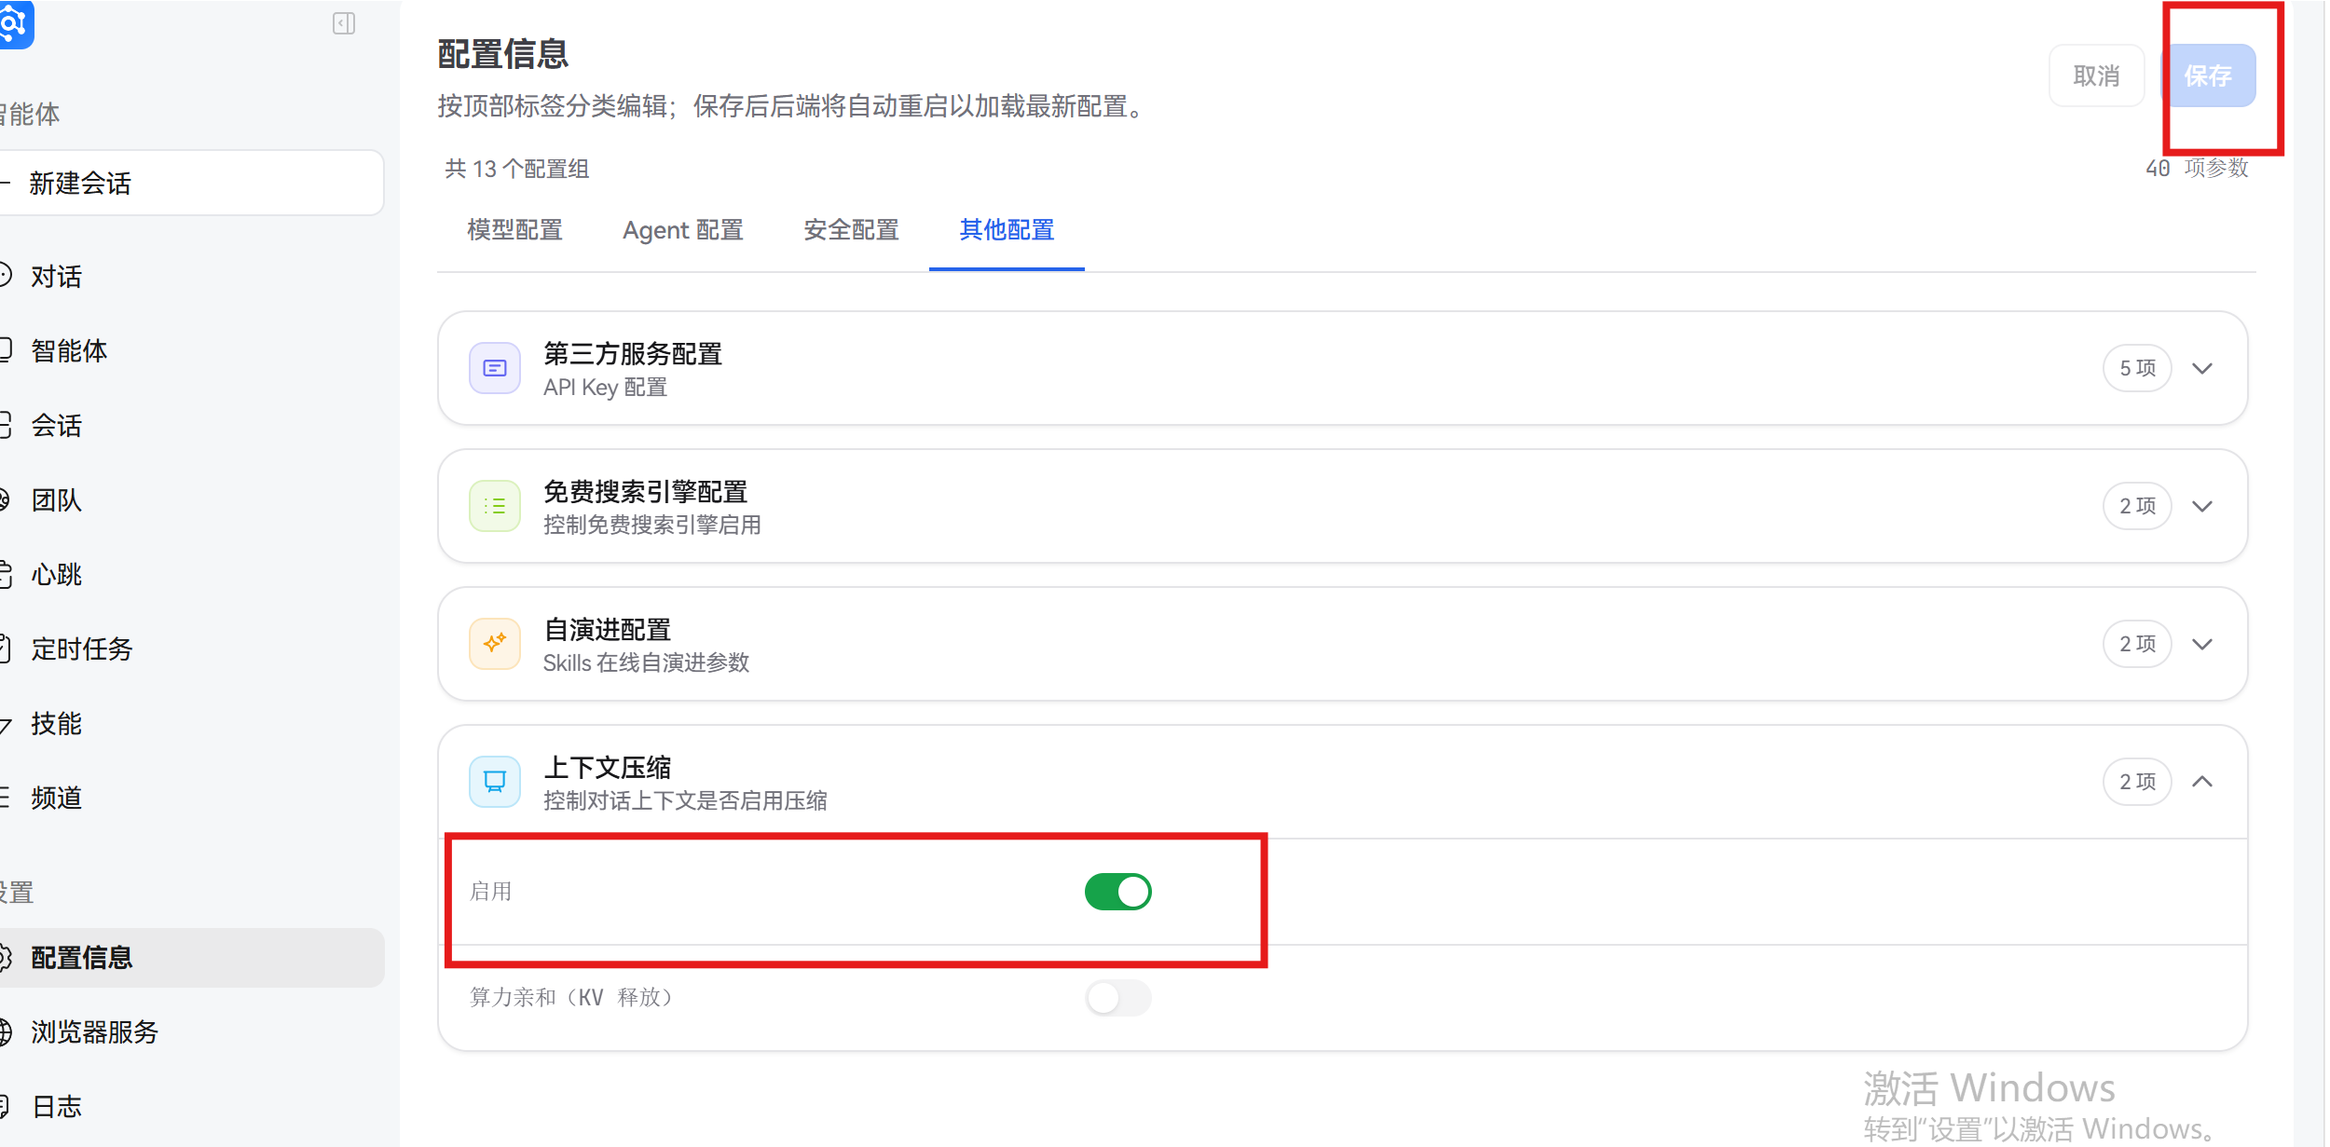
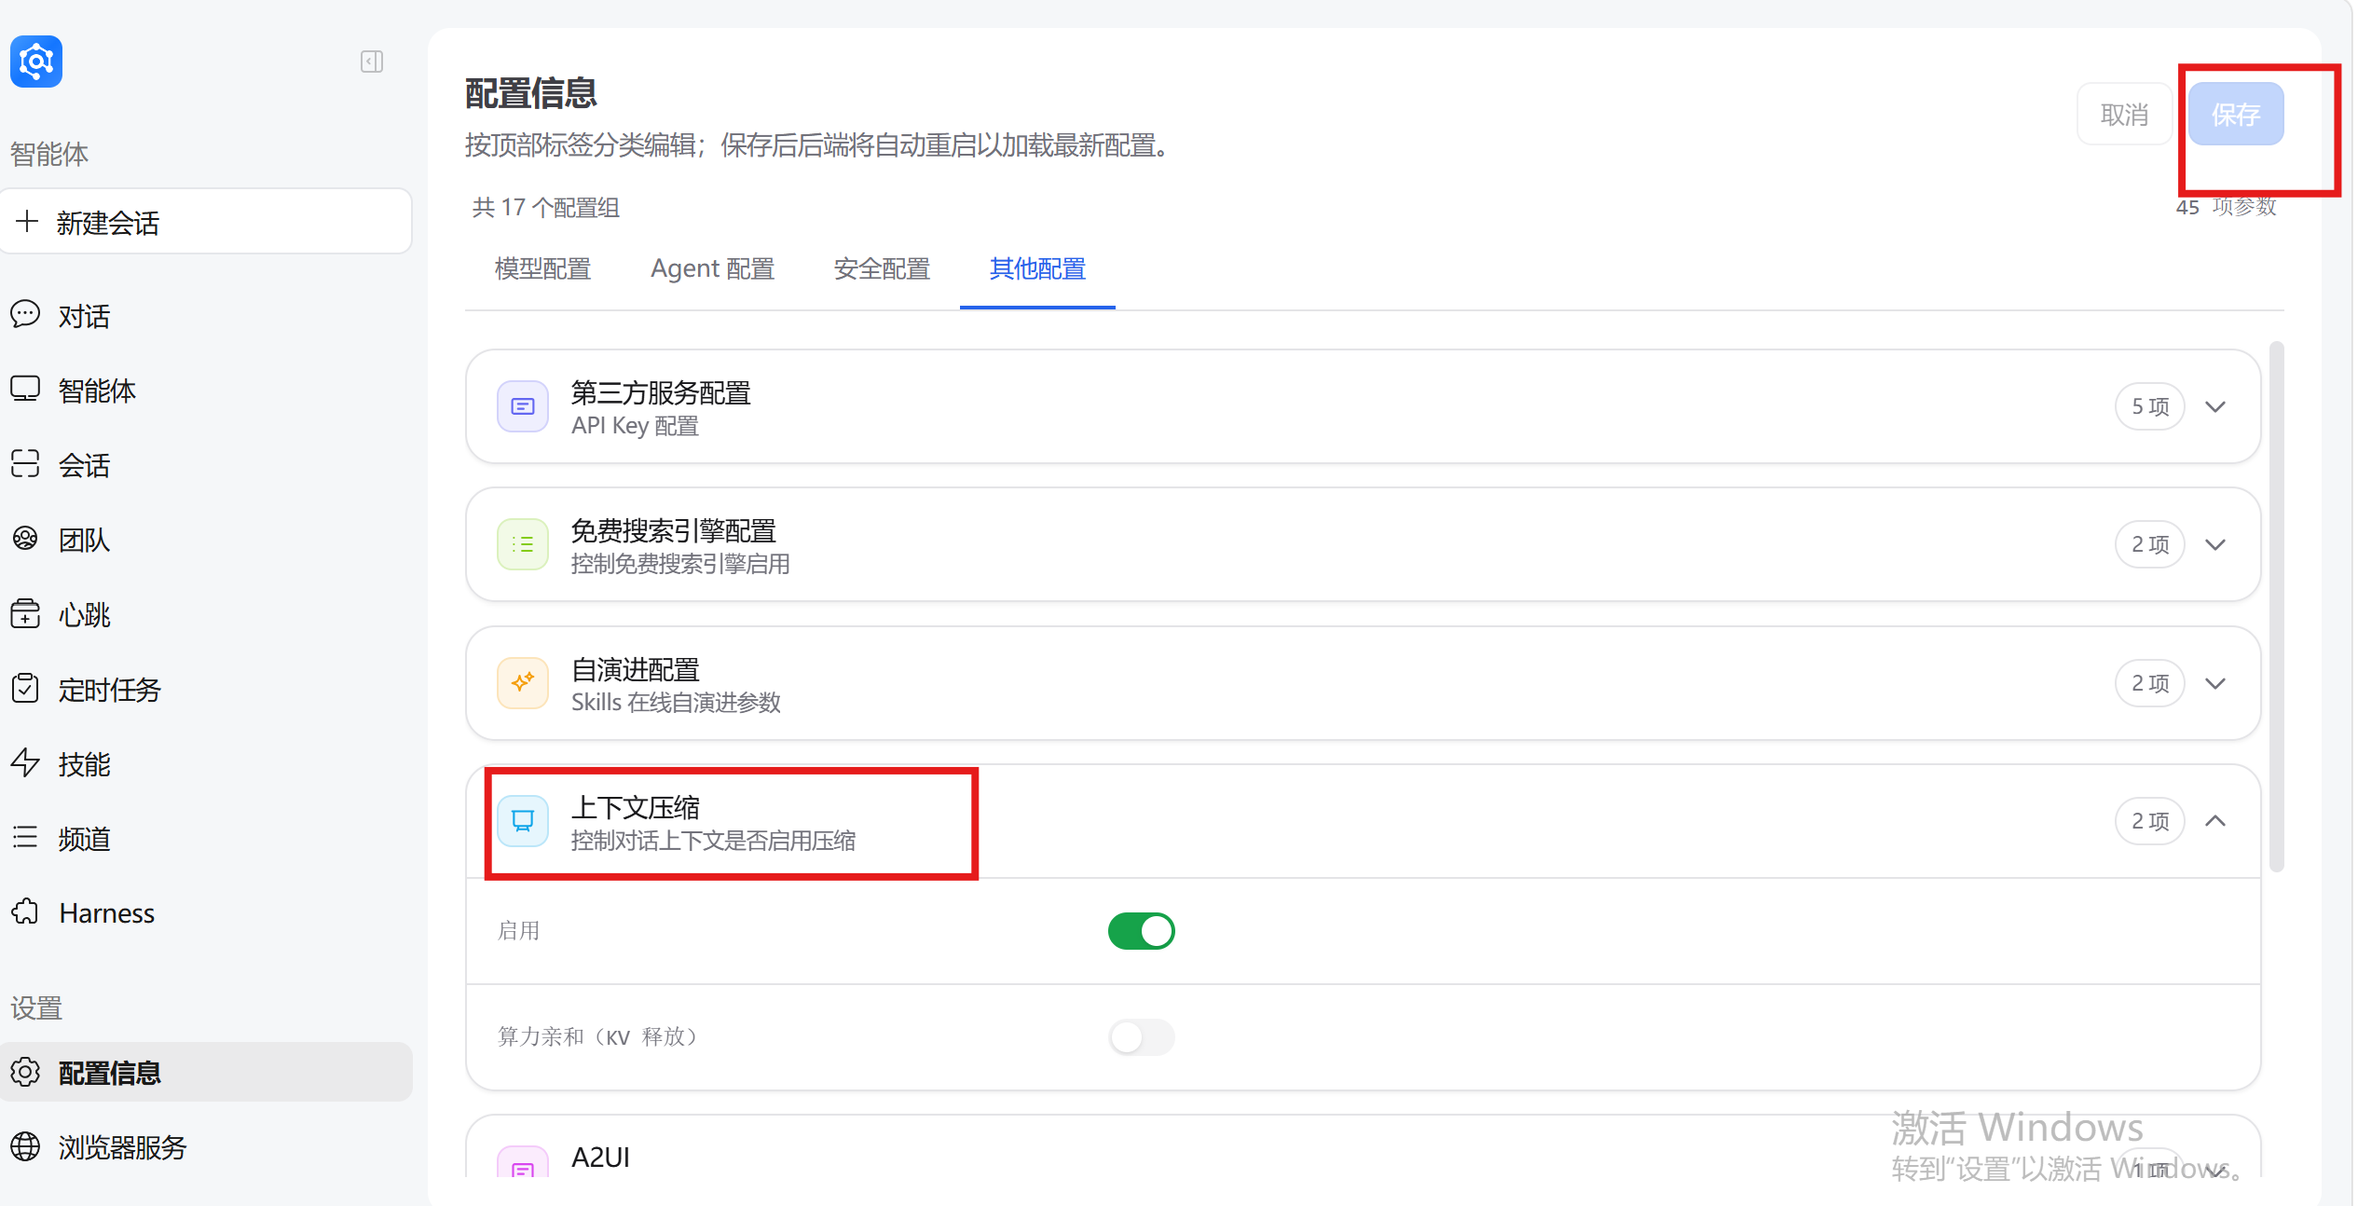
docs(Agent): 修复智能体文档
Refs: #1963

# message auto-generated for no-merge-commit merge:
!4036 fix:修复智能体文档

From: @xiaoxiawang

diff --git a/docs/en/Agent.md b/docs/en/Agent.md
@@ -12,7 +12,9 @@ In JiuwenSwarm, an **Agent** is a digital assistant that can act on its own. It 
 
 **Core definition:**
 
-**Agent = identity + tools + skills + memory + workspace**
+**Agent = identity + tools + skills + memory + workspace + config**
+
+> **Note:** The above 6 items are the core components that make up a single agent. The workspace contains runtime data such as todos, sessions, and file storage. When multiple agents work together, they can form a cross-agent **collaboration capability** for task decomposition and parallel execution.
 
 **How it differs from plain LLM chat:**
 
@@ -21,7 +23,8 @@ In JiuwenSwarm, an **Agent** is a digital assistant that can act on its own. It 
 | Execution | Text replies only | Can call tools (files, shell, web search, etc.) |
 | Memory | Short-term, within a session | Long-term across sessions; preferences and history |
 | Skills | Fixed capability | Loadable skill modules for specialized work |
-| Workspace | None | Dedicated workspace for tasks, todos, and state |
+| Workspace | None | Dedicated workspace for tasks, todos, and sessions |
+| Configuration | None | Independent config system for models, channels, permissions |
 | Personalization | None | Identity and config shape tone and behavior |
 
 **How the pieces fit together:**
@@ -35,9 +38,12 @@ In JiuwenSwarm, an **Agent** is a digital assistant that can act on its own. It 
 │  └─────────┘  └─────────┘  └─────────┘  └─────────┘ │
 │  ┌───────────────────────────────────────────────┐ │
 │  │              Workspace                       │ │
-│  │  ┌─────────┐  ┌─────────┐  ┌─────────────────┐│ │
-│  │  │  Todo   │  │ Config  │  │    Sessions     ││ │
-│  │  └─────────┘  └─────────┘  └─────────────────┘│ │
+│  │  ┌─────────┐  ┌─────────────────────────────┐ │ │
+│  │  │  Todo   │  │          Sessions            │ │ │
+│  │  └─────────┘  └─────────────────────────────┘ │ │
+│  └───────────────────────────────────────────────┘ │
+│  ┌───────────────────────────────────────────────┐ │
+│  │                Config                         │ │
 │  └───────────────────────────────────────────────┘ │
 └─────────────────────────────────────────────────────┘
 ```
@@ -45,12 +51,13 @@ In JiuwenSwarm, an **Agent** is a digital assistant that can act on its own. It 
 **Takeaways:**
 
 1. **Identity** — who the agent is and how it communicates  
-2. **Tools** — “hands” for files, search, code, shell, and media  
+2. **Tools** — "hands" for files, search, code, shell, and media  
 3. **Skills** — loadable modules (e.g. Git, document workflows)  
 4. **Memory** — user profile, history, and decisions across sessions  
-5. **Workspace** — the agent’s “desk” for tasks, config, and sessions  
+5. **Workspace** — the agent's "desk" for tasks, todos, and sessions  
+6. **Config** — the agent's "settings panel" for models, channels, and permissions  
 
-> This section is conceptual only. Later sections go into each part in more detail.
+> This section is conceptual only. Later sections go into each part in more detail. See also: [Configuration](Configuration.md), [Memory](Memory.md), [Skill Self-Evolution](SkillSelfEvolution.md).
 
 ---
 
@@ -83,19 +90,19 @@ In the web frontend, the **Agent** page is a **workspace file browser** for view
 
 ### What an agent is made of
 
-An agent has six main areas. You can focus on the ones you care about.
+An agent consists of **6 core components** and **1 collaboration capability** (multi-agent collaboration). You can focus on the ones you care about.
 
 **Overview:**
 
-| Part | Role | User focus | Main effect |
-|------|------|------------|-------------|
-| **Identity** | Who the agent is, tone, style | Customizable | Conversation style and behavior |
-| **Workspace** | Tasks, todos, sessions, runtime data | Good to understand | Task tracking and persistence |
-| **Tools** | Files, web, code, shell, media | Usually no edits | What operations are possible |
-| **Skills** | Professional modules (Git, PPT, etc.) | Load as needed | Extra capabilities |
-| **Memory** | Preferences, history, decisions | Mostly automatic | Continuity and personalization |
-| **Todo** | Task tracking | Day to day | Execution efficiency |
-| **Config** | Models, channels, permissions | Advanced users | Model, security, channel behavior |
+| Part | Type | Role | User focus | Main effect |
+|------|------|------|------------|-------------|
+| **Identity** | Core component | Who the agent is, tone, style | Customizable | Conversation style and behavior |
+| **Workspace** | Core component | Tasks, todos, sessions, runtime data | Good to understand | Task tracking and persistence |
+| **Tools** | Core component | Files, web, code, shell, media | Usually no edits | What operations are possible |
+| **Skills** | Core component | Professional modules (Git, PPT, etc.) | Load as needed | Extra capabilities |
+| **Memory** | Core component | Preferences, history, decisions | Mostly automatic | Continuity and personalization |
+| **Config** | Core component | Models, channels, permissions | Advanced users | Model, security, channel behavior |
+| **Multi-Agent Collaboration** | Collaboration capability | Supports team-based workflows for parallel operation | Enable as needed | Task decomposition and efficiency |
 
 **Details:**
 
@@ -107,7 +114,7 @@ Defines who the agent is and how it talks to you:
 - Personality (concise vs. thorough)  
 - Principles (e.g. try first, then ask; respect trust)  
 
-**Files:** `IDENTITY.md`, `SOUL.md`
+**Files:** `agent/workspace/IDENTITY_ZH.md`, `agent/workspace/SOUL_ZH.md` (Chinese); `agent/workspace/IDENTITY_EN.md`, `agent/workspace/SOUL_EN.md` (English)
 
 #### 2. Workspace
 
@@ -138,8 +145,10 @@ Loadable modules. Each skill typically defines goals, steps, tool usage, and out
 
 **Examples:**
 
-- `gitcode-pr` — open a Pull Request on GitCode  
-- `gitcode-pr-review-fix` — address PR review comments and update code  
+- `skill-creator` — skill creation assistant, helps generate new skills  
+- `swarmskill-creator` — Swarm skill creator, supports multi-agent collaboration skills  
+- `gitcode-api` — GitCode platform API operations  
+- `project-maintainer` — project maintenance assistant, supports code review and version management  
 
 **Location:** `skills/` directory
 
@@ -166,6 +175,24 @@ Controls runtime behavior:
 
 > You do not need to edit everything by hand. In practice, focus on **identity** and **skills**; the rest is largely managed by the system.
 
+#### 7. Multi-Agent Collaboration
+
+JiuwenSwarm supports multi-agent collaboration through team-based workflows to handle complex tasks.
+
+**Collaboration modes:**
+- **Team mode**: A leader agent breaks down tasks, while multiple teammate agents execute subtasks  
+- **Swarm mode**: Multiple agents work in parallel, with task distribution and result aggregation through skill orchestration  
+
+**Features:**
+- Automatic task decomposition: Complex tasks are split into executable subtasks by the leader  
+- Parallel execution: Multiple agents work simultaneously for efficiency  
+- Result aggregation: The leader collects and integrates results from teammates  
+- Dynamic adjustment: Task assignments adapt based on execution progress  
+
+**Configuration:** Team settings are configured in the `team` section of `config/config.yaml`
+
+> See team collaboration documentation for more details on multi-agent workflows.
+
 ---
 
 ## Directory layout
@@ -184,19 +211,22 @@ C:\Users\<username>\.jiuwenswarm\
 │   └── builtin_rules.yaml           # Built-in rules
 │
 ├── agent/                           # Agent-related data
-│   └── <service_id>/                # Service instance
-│       └── <agent_id>/              # Agent instance
-│           ├── agent/               # Agent workspace
-│           │   ├── AGENT.md         # Agent bootstrap config
-│           │   ├── IDENTITY.md      # Identity
-│           │   ├── SOUL.md          # Values and persona
-│           │   ├── HEARTBEAT.md     # Heartbeat tasks
-│           │   └── sessions/        # Session data
-│           ├── config/              # Per-agent config overrides (optional)
-│           ├── memory/              # Agent memory store
-│           ├── skills/              # Skills
-│           └── todo/                # Todos
+│   ├── sessions/                    # Session history storage
+│   └── workspace/                   # Agent workspace
+│       ├── AGENT_ZH.md              # Agent bootstrap config (Chinese)
+│       ├── AGENT_EN.md              # Agent bootstrap config (English)
+│       ├── IDENTITY_ZH.md           # Identity (Chinese)
+│       ├── IDENTITY_EN.md           # Identity (English)
+│       ├── SOUL_ZH.md               # Values and persona (Chinese)
+│       ├── SOUL_EN.md               # Values and persona (English)
+│       ├── HEARTBEAT_ZH.md          # Heartbeat tasks (Chinese)
+│       ├── HEARTBEAT_EN.md          # Heartbeat tasks (English)
+│       ├── USER.md                  # User profile and preferences
+│       ├── memory/                  # Agent memory store
+│       ├── todo/                    # Agent todo items storage
+│       └── skills/                  # Skills
 │
+├── todo/                            # Global todo items storage
 ├── gateway/                         # Gateway data
 ├── logs/                            # Log files
 ├── memory/                          # Global memory store
@@ -210,13 +240,16 @@ C:\Users\<username>\.jiuwenswarm\
 |------|---------|-------|------------------|
 | `config/config.yaml` | Models, channels, permissions, memory | Advanced users, carefully | Affects models, channels, security; restart required |
 | `config/builtin_rules.yaml` | Built-in rules | Not recommended | Changes default system behavior |
-| `agent/<id>/agent/AGENT.md` | Bootstrap config | Yes, when needed | Affects startup behavior |
-| `agent/<id>/agent/IDENTITY.md` | Identity | Customizable | Affects how the agent sees its role |
-| `agent/<id>/agent/SOUL.md` | Values and persona | Customizable | Affects tone and style |
-| `agent/<id>/agent/HEARTBEAT.md` | Heartbeat tasks | Adjustable | Affects scheduled / proactive behavior |
-| `agent/<id>/skills/` | Skills | Add skills | Extends capabilities |
-| `agent/<id>/memory/` | Memory store | Do not edit by hand | Risk of corrupting memory data |
-| `agent/<id>/todo/` | Todos | System-managed | Affects task tracking |
+| `agent/sessions/` | Session history storage | Auto-managed by system | Affects session history; manage via Web UI |
+| `agent/workspace/AGENT_ZH.md` | Bootstrap config (Chinese) | Yes, when needed | Affects startup behavior |
+| `agent/workspace/IDENTITY_ZH.md` | Identity (Chinese) | Customizable | Affects how the agent sees its role |
+| `agent/workspace/SOUL_ZH.md` | Values and persona (Chinese) | Customizable | Affects tone and style |
+| `agent/workspace/HEARTBEAT_ZH.md` | Heartbeat tasks (Chinese) | Adjustable | Affects scheduled / proactive behavior |
+| `agent/workspace/USER.md` | User profile and preferences | Auto-managed by system | Affects personalization; update via agent conversation |
+| `agent/workspace/skills/` | Skills | Add skills | Extends capabilities |
+| `agent/workspace/memory/` | Memory store (user profile, episodic, semantic) | Do not edit by hand | Risk of corrupting memory data |
+| `agent/workspace/todo/` | Agent todo items storage | Auto-managed by system | Affects task tracking; manage via agent conversation |
+| `todo/` | Global todo items storage | Auto-managed by system | Affects task tracking; manage via agent conversation |
 | `logs/` | Logs | View only | Used for troubleshooting |
 
 **Example (Windows):**
@@ -224,14 +257,22 @@ C:\Users\<username>\.jiuwenswarm\
 ```text
 C:\Users\Administrator\.jiuwenswarm\
 ├── config\config.yaml
-├── service_default_service_id\
-│   └── agent_default_agent_id\
-│       └── agent\
-│           ├── AGENT.md
-│           ├── IDENTITY.md
-│           ├── SOUL.md
-│           ├── skills\
-│           └── sessions\
+├── todo\                            # Global todo items
+├── agent\
+│   ├── sessions\                    # Session history
+│   └── workspace\
+│       ├── AGENT_ZH.md
+│       ├── AGENT_EN.md
+│       ├── IDENTITY_ZH.md
+│       ├── IDENTITY_EN.md
+│       ├── SOUL_ZH.md
+│       ├── SOUL_EN.md
+│       ├── HEARTBEAT_ZH.md
+│       ├── HEARTBEAT_EN.md
+│       ├── USER.md
+│       ├── memory\
+│       ├── todo\                    # Agent todo items
+│       └── skills\
 ```
 
 > **Notes:**  
@@ -282,8 +323,8 @@ C:\Users\<username>\.jiuwenswarm\config\config.yaml
 
 | Key | Meaning | Effect | Suggestion |
 |-----|---------|--------|------------|
-| `models.default.model_name` | Default model | Quality and speed | Confirm the model works first |
-| `models.default.temperature` | Temperature | Creativity vs. stability | Often 0.7–1.0 |
+| `models.defaults[0].model_client_config.model_name` | Default model | Quality and speed | Confirm the model works first |
+| `models.defaults[0].model_config_obj.temperature` | Temperature | Creativity vs. stability | Often 0.7–1.0 |
 | `heartbeat.active_hours` | Active window | When proactive runs fire | Match your schedule |
 | `permissions.tools.*` | Tool permissions | Safety | Understand risk before changing |
 
@@ -291,7 +332,7 @@ C:\Users\<username>\.jiuwenswarm\config\config.yaml
 
 | Key | Meaning | Risk | Suggestion |
 |-----|---------|------|------------|
-| `models.default.api_key` | API key | Leakage | Prefer environment variables |
+| `models.defaults[0].model_client_config.api_key` | API key | Leakage | Prefer environment variables |
 | `memory.external.*` | External memory engine | Memory may break | Keep defaults |
 | `gateway.*` | Gateway settings | Connectivity | Change only when deploying |
 | `permissions.rules.*` | Security rules | Security holes | Keep defaults |
@@ -300,16 +341,24 @@ C:\Users\<username>\.jiuwenswarm\config\config.yaml
 
 **Restart is required for changes to take effect.**
 
+Restart commands vary by installation method:
+
 ```bash
-# Windows (depends on how you installed)
-# If running as a service:
+# Method 1: Windows service (installed via installer)
 net stop jiuwenswarm
 net start jiuwenswarm
 
-# If running from the command line:
-# Stop the current process, then:
+# Method 2: Command line (manual startup)
+# Stop the current terminal process, then:
 jiuwenswarm-start
-# or: python -m jiuwenswarm.app
+
+# Method 3: Python module (development)
+# Stop the current process, then:
+python -m jiuwenswarm.app
+
+# Method 4: Container deployment (Docker/Kubernetes)
+# Restart according to your container orchestration config:
+docker restart jiuwenswarm-container
 ```
 
 #### Common scenarios
@@ -319,9 +368,15 @@ jiuwenswarm-start
 ```yaml
 # In config.yaml
 models:
-  default:
-    model_client_config:
-      model_name: "your-model-name"  # e.g. deepseek-chat, gpt-4o
+  defaults:
+    - model_client_config:
+        api_base: https://api.example.com/v1
+        api_key: your-api-key
+        model_name: "your-model-name"  # e.g. deepseek-chat, gpt-4o
+        client_provider: OpenAI
+      model_config_obj:
+        temperature: 0.95
+      is_default: true
 ```
 
 Restart the service.
@@ -330,10 +385,16 @@ Restart the service.
 
 ```yaml
 models:
-  default:
-    model_config_obj:
-      temperature: 0.8   # more creative
-      # temperature: 0.3  # more stable
+  defaults:
+    - model_client_config:
+        api_base: https://api.example.com/v1
+        api_key: your-api-key
+        model_name: your-model-name
+        client_provider: OpenAI
+      model_config_obj:
+        temperature: 0.8   # more creative
+        # temperature: 0.3  # more stable
+      is_default: true
 ```
 
 **Scenario 3: Enable or disable a channel**
